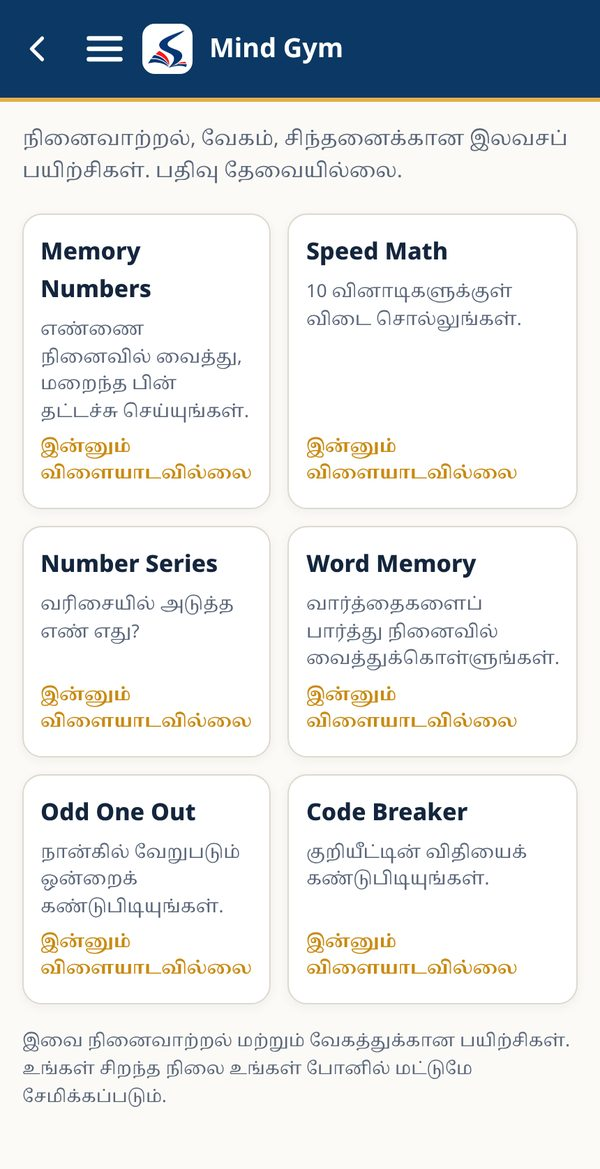
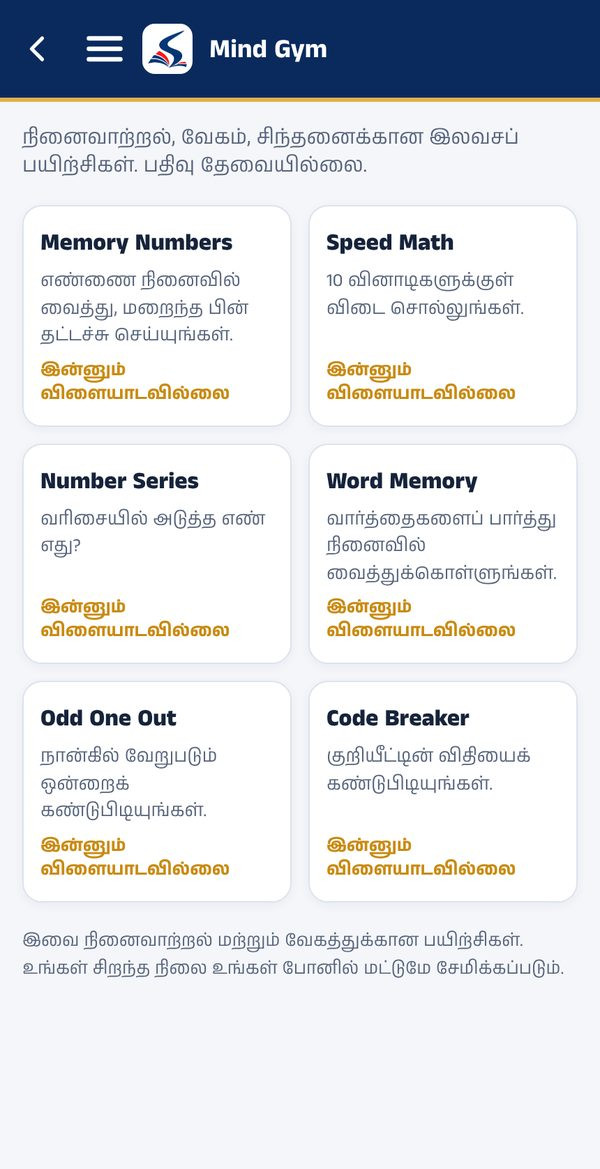
Inner pages: light theme and display font moved to the redesigned home's palette (cool white, navy, Anek Tamil); free practice, Mind Gym, ability test recoloured to match
Claude-Session: https://claude.ai/code/session_01HhnF1HSW8R4n2XmnorDvWJ

diff --git a/frontend/src/app/free-practice/page.tsx b/frontend/src/app/free-practice/page.tsx
@@ -13,11 +13,11 @@ import { apiUrl } from '../../lib/api-config';
 import { rememberAfterLogin } from '../../lib/after-login';
 import { DISPLAY_FONT } from '../../lib/brand-theme';
 
-const PAPER = '#FBF6E9';
-const INK = '#0F2F33';
-const TEAL = '#1c6b6b';
+const PAPER = '#F4F6FA';
+const INK = '#16233B';
+const TEAL = '#0A2A5E';
 const GOLD = '#C98A12';
-const SERIF = `'Noto Serif Tamil', ${DISPLAY_FONT}`;
+const SERIF = DISPLAY_FONT; // Nov 2026: one display face site-wide
 
 type Lang = 'TA' | 'EN';
 type Q = { sequenceNumber: number; id: string; questionText: string; optionA: string; optionB: string; optionC: string; optionD: string };
@@ -162,7 +162,7 @@ export default function FreePracticePage() {
   }
 
   const header = (
-    <div style={{ background: '#fefefe', borderBottom: '1px solid #eadfc4', padding: '10px 18px' }}>
+    <div style={{ background: '#fefefe', borderBottom: '1px solid #DCE3EE', padding: '10px 18px' }}>
       <div style={{ maxWidth: 460, margin: '0 auto' }}>
         <a href="/"><Image src="/logo-wordmark.png" alt="PONNA.in" width={982} height={258} priority style={{ height: 36, width: 'auto', display: 'block' }} /></a>
       </div>
@@ -175,7 +175,7 @@ export default function FreePracticePage() {
     body = (
       <>
         <h1 style={{ fontFamily: SERIF, fontWeight: 800, fontSize: 26, lineHeight: 1.5, margin: '8px 0 6px', color: INK }}>{TEXT.TA.title}</h1>
-        <p style={{ fontSize: 15, lineHeight: 1.7, color: '#4a5d59', margin: '0 0 22px' }}>{TEXT.TA.sub}</p>
+        <p style={{ fontSize: 15, lineHeight: 1.7, color: '#55627A', margin: '0 0 22px' }}>{TEXT.TA.sub}</p>
         <p style={{ fontFamily: SERIF, fontWeight: 600, fontSize: 16.5, color: TEAL, margin: '0 0 12px' }}>{TEXT.TA.pick}</p>
         <button type="button" onClick={() => load('TA')} style={langBtn}>தமிழ்</button>
         <button type="button" onClick={() => load('EN')} style={langBtn}>English</button>
@@ -196,9 +196,9 @@ export default function FreePracticePage() {
         <div style={{ fontSize: 46, lineHeight: 1 }} aria-hidden="true">🎉</div>
         <h1 style={{ fontFamily: SERIF, fontWeight: 800, fontSize: 27, margin: '12px 0 6px', color: INK }}>{t.doneTitle}</h1>
         <p style={{ fontSize: 18, fontWeight: 700, color: TEAL, margin: '0 0 22px' }}>{t.score(correctCount)}</p>
-        <div style={{ background: '#fff', border: '1px solid #eadfc4', borderRadius: 12, padding: '18px 16px', boxShadow: '0 10px 30px -12px rgba(15,47,51,.3)' }}>
+        <div style={{ background: '#fff', border: '1px solid #DCE3EE', borderRadius: 12, padding: '18px 16px', boxShadow: '0 10px 30px -12px rgba(15,47,51,.3)' }}>
           <p style={{ fontFamily: SERIF, fontWeight: 800, fontSize: 18.5, lineHeight: 1.55, margin: '0 0 8px', color: INK }}>{t.cta}</p>
-          <p style={{ fontSize: 14, lineHeight: 1.75, color: '#4a5d59', margin: '0 0 16px' }}>{t.ctaSub}</p>
+          <p style={{ fontSize: 14, lineHeight: 1.75, color: '#55627A', margin: '0 0 16px' }}>{t.ctaSub}</p>
           <button type="button" onClick={signUp} style={primaryBtn}>{t.signup}</button>
         </div>
         <a href="/?skipWelcome=1" style={{ display: 'inline-block', marginTop: 18, fontSize: 13.5, color: '#2851A3', textDecoration: 'underline', textUnderlineOffset: 3 }}>{t.home}</a>
@@ -208,7 +208,7 @@ export default function FreePracticePage() {
     const q = questions[index];
     const opts = [q.optionA, q.optionB, q.optionC, q.optionD];
     body = (
-      <div style={{ background: '#fff', borderRadius: 10, padding: '18px 16px 14px', boxShadow: '0 10px 30px -12px rgba(15,47,51,.35)', border: '1px solid #eadfc4' }}>
+      <div style={{ background: '#fff', borderRadius: 10, padding: '18px 16px 14px', boxShadow: '0 10px 30px -12px rgba(15,47,51,.35)', border: '1px solid #DCE3EE' }}>
         <div style={{ fontSize: 12.5, color: GOLD, fontWeight: 700, marginBottom: 8 }}>{t.qOf(index + 1)} · TNPSC Group 4</div>
         <p style={{ fontFamily: SERIF, fontWeight: 800, fontSize: 19, lineHeight: 1.65, margin: '0 0 14px', color: INK }}>{q.questionText}</p>
         {opts.map((text, i) => {
@@ -224,7 +224,7 @@ export default function FreePracticePage() {
               style={{
                 display: 'flex', alignItems: 'center', gap: 12, width: '100%', minHeight: 50, textAlign: 'left',
                 background: isRight ? '#E4F4E2' : isWrong ? '#FCE9E6' : PAPER,
-                border: `1.5px solid ${isRight ? '#2e8b3d' : isWrong ? '#c0392b' : picked === key ? TEAL : '#e6dab8'}`,
+                border: `1.5px solid ${isRight ? '#2e8b3d' : isWrong ? '#c0392b' : picked === key ? TEAL : '#DCE3EE'}`,
                 borderRadius: 8, padding: '12px 14px', marginBottom: 10, fontSize: 17, fontWeight: 500, color: INK,
                 cursor: checked ? 'default' : 'pointer', fontFamily: 'inherit',
               }}
@@ -238,7 +238,7 @@ export default function FreePracticePage() {
             </button>
           );
         })}
-        {!checked && <p style={{ fontSize: 13, color: '#6f7f7a', textAlign: 'center', margin: '2px 0 0' }}>{t.touch}</p>}
+        {!checked && <p style={{ fontSize: 13, color: '#55627A', textAlign: 'center', margin: '2px 0 0' }}>{t.touch}</p>}
         {checked && (
           <p role="status" style={{ fontSize: 14.5, lineHeight: 1.75, background: '#FFF6DA', borderRadius: 10, padding: '10px 12px', margin: '4px 0 0', color: INK }}>
             <b>{checked.isCorrect ? t.correct : t.wrong(LABELS[lang][KEYS.indexOf(checked.correctOption)])}</b>
@@ -263,6 +263,6 @@ const langBtn: React.CSSProperties = {
   border: `2px solid ${TEAL}`, borderRadius: 10, cursor: 'pointer', fontFamily: 'inherit',
 };
 const primaryBtn: React.CSSProperties = {
-  display: 'block', width: '100%', textAlign: 'center', background: '#FFD22A', color: '#0B3864', fontWeight: 800, fontSize: 17.5,
+  display: 'block', width: '100%', textAlign: 'center', background: '#FFD22A', color: '#0A2A5E', fontWeight: 800, fontSize: 17.5,
   padding: 15, borderRadius: 10, border: 'none', cursor: 'pointer', fontFamily: 'inherit',
 };

diff --git a/frontend/src/app/test-your-ability/page.tsx b/frontend/src/app/test-your-ability/page.tsx
@@ -12,12 +12,12 @@ import Image from 'next/image';
 import { DISPLAY_FONT } from '../../lib/brand-theme';
 import { HERO_ART_SVG } from './hero-art';
 
-const PAPER = '#FBF6E9';
-const INK = '#0F2F33';
-const TEAL = '#1c6b6b';
+const PAPER = '#F4F6FA';
+const INK = '#16233B';
+const TEAL = '#0A2A5E';
 const GOLD = '#C98A12';
 
-const SERIF = `'Noto Serif Tamil', ${DISPLAY_FONT}`;
+const SERIF = DISPLAY_FONT; // Nov 2026: one display face site-wide
 
 // Fixed sample question (not drawn from the question bank).
 const QUESTION = 'இந்திய அரசியலமைப்புச் சட்டம் எந்த ஆண்டு நடைமுறைக்கு வந்தது?';
@@ -61,7 +61,7 @@ export default function TestYourAbilityPage() {
           சரியான விடையைத் தேர்வு செய்யுங்கள்
         </p>
 
-        <div style={{ background: '#fff', borderRadius: 10, padding: '18px 16px 14px', boxShadow: '0 10px 30px -12px rgba(15,47,51,.35)', border: '1px solid #eadfc4' }}>
+        <div style={{ background: '#fff', borderRadius: 10, padding: '18px 16px 14px', boxShadow: '0 10px 30px -12px rgba(15,47,51,.35)', border: '1px solid #DCE3EE' }}>
           <div style={{ fontSize: 12.5, color: GOLD, fontWeight: 700, marginBottom: 8 }}>கேள்வி 1 · TNPSC குரூப்-4 · பொது அறிவு</div>
           <p style={{ fontFamily: SERIF, fontWeight: 800, fontSize: 19, lineHeight: 1.65, margin: '0 0 14px' }}>{QUESTION}</p>
 
@@ -78,7 +78,7 @@ export default function TestYourAbilityPage() {
                 style={{
                   display: 'flex', alignItems: 'center', gap: 12, width: '100%', minHeight: 50, textAlign: 'left',
                   background: isRight ? '#E4F4E2' : isWrong ? '#FCE9E6' : PAPER,
-                  border: `1.5px solid ${isRight ? '#2e8b3d' : isWrong ? '#c0392b' : '#e6dab8'}`,
+                  border: `1.5px solid ${isRight ? '#2e8b3d' : isWrong ? '#c0392b' : '#DCE3EE'}`,
                   borderRadius: 8, padding: '12px 14px', marginBottom: 10,
                   fontSize: 17, fontWeight: 500, color: INK, cursor: answered ? 'default' : 'pointer', fontFamily: 'inherit',
                 }}
@@ -99,7 +99,7 @@ export default function TestYourAbilityPage() {
             );
           })}
 
-          {!answered && <p style={{ fontSize: 13, color: '#6f7f7a', textAlign: 'center', margin: '2px 0 0' }}>ஒன்றைத் தொடுங்கள்</p>}
+          {!answered && <p style={{ fontSize: 13, color: '#55627A', textAlign: 'center', margin: '2px 0 0' }}>ஒன்றைத் தொடுங்கள்</p>}
           {answered && (
             <p role="status" style={{ fontSize: 14.5, lineHeight: 1.75, background: '#FFF6DA', borderRadius: 10, padding: '10px 12px', margin: '4px 0 0' }}>
               <b>{picked === CORRECT ? 'சரி!' : 'இல்லை, சரியான விடை 1950.'}</b> {EXPLANATION}

diff --git a/frontend/src/lib/brand-theme.tsx b/frontend/src/lib/brand-theme.tsx
@@ -44,24 +44,26 @@ export function ThemeStyles() {
   return (
     <style suppressHydrationWarning>{`
       :root {
-        --color-paper: #FBFAF6;
-        --color-paperAlt: #F4F1E8;
-        --color-ink: #14253D;
-        --color-inkMuted: #596579;
+        /* Nov 2026 — light theme moved from warm cream to the redesigned home's
+           palette (cool white, navy, gold) so inner pages match the home page. */
+        --color-paper: #F4F6FA;
+        --color-paperAlt: #E9EEF6;
+        --color-ink: #16233B;
+        --color-inkMuted: #55627A;
         --color-gold: #C28A16;
         --color-goldLight: #FFF3C4;
-        --color-line: #DDD9CE;
+        --color-line: #DCE3EE;
         /* Oct 2026 — extra tokens for the redesigned profile page */
         --color-card: #FFFFFF;
-        --color-field: #FBF8EE;
+        --color-field: #F7F9FC;
         --color-teal: #17835E;
         --color-ok: #17835E;
         --color-bad: #c0392b;
         --color-goldDisc: #FFF7D9;
-        --color-head1: #0B3864;
-        --color-head2: #0B3864;
-        --color-btn: #0B3864;
-        --color-btnText: #FFD22A;
+        --color-head1: #0A2A5E;
+        --color-head2: #0A2A5E;
+        --color-btn: #0A2A5E;
+        --color-btnText: #FFFFFF;
         --color-okBg: #E4F4E2;
         --color-badBg: #FCE9E6;
       }
@@ -92,7 +94,9 @@ export function ThemeStyles() {
 }
 
 
-export const DISPLAY_FONT = "'Bitter', 'Noto Sans Tamil', 'Noto Sans', serif";
+// Nov 2026 — headings use Anek Tamil (the redesigned home's display face)
+// instead of the Bitter slab serif, so every page reads as one site.
+export const DISPLAY_FONT = "'Anek Tamil', 'Noto Sans Tamil', 'Noto Sans', sans-serif";
 
 // Sept 2026 — Bitter is now requested from the root layout's single
 // Google Fonts <link> (merged alongside Noto Sans, one stylesheet

diff --git a/frontend/src/app/mind-gym/page.tsx b/frontend/src/app/mind-gym/page.tsx
@@ -10,7 +10,7 @@ import { DISPLAY_FONT } from '../../lib/brand-theme';
 import { MindGymHeader } from '../../components/MindGym';
 import { MG_CARD, MG_GOLD, MG_INK, MG_LINE, MG_MUTED, MG_PAPER, MG_TEAL, readBest } from '../../lib/mind-gym';
 
-const SERIF = `'Noto Serif Tamil', ${DISPLAY_FONT}`;
+const SERIF = DISPLAY_FONT; // Nov 2026: one display face site-wide
 
 const GAMES = [
   { href: '/mind-gym/memory-numbers', title: 'Memory Numbers', body: 'எண்ணை நினைவில் வைத்து, மறைந்த பின் தட்டச்சு செய்யுங்கள்.', key: 'ponna_memory_best', unit: 'இலக்கங்கள்', total: 0 },

diff --git a/frontend/src/components/MindGym.tsx b/frontend/src/components/MindGym.tsx
@@ -10,7 +10,7 @@ import { StudentMenu } from './StudentMenu';
 import { ShareResultCard } from './ShareResultCard';
 import { MG_BAD, MG_BADBG, MG_CARD, MG_GOLD, MG_GOOD, MG_INK, MG_LINE, MG_MUTED, MG_OKBG, MG_PAPER, MG_TEAL, readBest, saveBest } from '../lib/mind-gym';
 
-const SERIF = `'Noto Serif Tamil', ${DISPLAY_FONT}`;
+const SERIF = DISPLAY_FONT; // Nov 2026: one display face site-wide
 
 export const mgCard: CSSProperties = {
   background: MG_CARD, border: `1px solid ${MG_LINE}`, borderRadius: 16, padding: '22px 18px',

diff --git a/frontend/src/app/mind-gym/memory-numbers/page.tsx b/frontend/src/app/mind-gym/memory-numbers/page.tsx
@@ -14,9 +14,9 @@ import { DISPLAY_FONT } from '../../../lib/brand-theme';
 
 const PAPER = 'var(--color-paper)';
 const INK = 'var(--color-ink)';
-const TEAL = '#1c6b6b';
+const TEAL = '#0A2A5E';
 const GOLD = '#C98A12';
-const SERIF = `'Noto Serif Tamil', ${DISPLAY_FONT}`;
+const SERIF = DISPLAY_FONT; // Nov 2026: one display face site-wide
 
 const START_DIGITS = 4;
 const MAX_DIGITS = 12;
